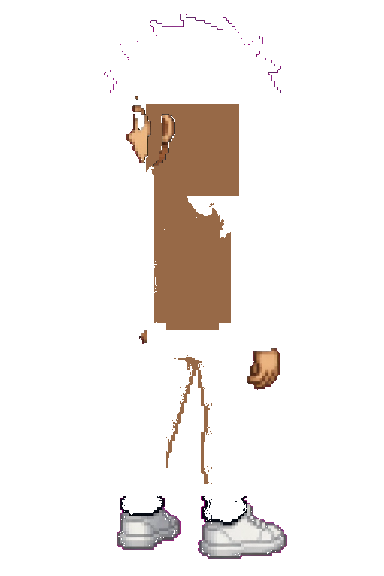
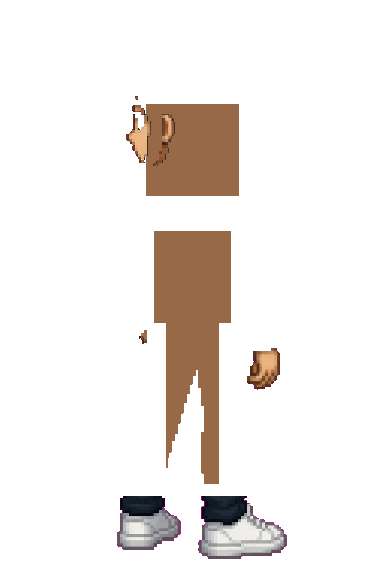
Lazy-load look layers so mobile works; wipe leftover hair from the base body.

diff --git a/src/lib/game/avatar.ts b/src/lib/game/avatar.ts
@@ -111,6 +111,9 @@ export function clampFigure(f: Partial<Figure> | undefined): Figure {
   };
 }
 
+const SPRITE_V = 20;
+const inflight = new Map<string, Promise<HTMLCanvasElement | null>>();
+
 function loadImage(src: string) {
   return new Promise<HTMLImageElement | null>((resolve) => {
     const img = new Image();
@@ -120,28 +123,77 @@ function loadImage(src: string) {
   });
 }
 
+function cacheCanvas(id: string, img: HTMLImageElement) {
+  const c = document.createElement("canvas");
+  c.width = img.width;
+  c.height = img.height;
+  const ctx = c.getContext("2d")!;
+  ctx.imageSmoothingEnabled = false;
+  ctx.drawImage(img, 0, 0);
+  sprites.set(id, c);
+  return c;
+}
+
+export async function loadSpriteId(id: string) {
+  if (sprites.has(id)) return sprites.get(id)!;
+  const hit = inflight.get(id);
+  if (hit) return hit;
+  const p = (async () => {
+    const img = await loadImage(`/art/avatars/${id}.png?v=${SPRITE_V}`);
+    if (!img) return null;
+    return cacheCanvas(id, img);
+  })();
+  inflight.set(id, p);
+  return p;
+}
+
+export function lookSpriteIds(fig: Figure, dir: 0 | 1 | 2 | 3 = 1) {
+  const f = clampFigure(fig);
+  const g = f.gender === 1 ? "f" : "m";
+  const view = dir === 2 || dir === 3 ? "ne" : "se";
+  const hair = hairName(f);
+  const top = topName(f);
+  const bot = botName(f);
+  return [
+    `${g}-base-${view}`,
+    `${g}-se-base`,
+    `${g}-hair-${hair}-${view}-layer`,
+    `${g}-hair-${hair}-se-layer`,
+    `${g}-top-${top}-${view}-layer`,
+    `${g}-top-${top}-se-layer`,
+    `${g}-bot-${bot}-${view}-layer`,
+    `${g}-bot-${bot}-se-layer`,
+  ];
+}
+
+export async function loadLookSprites(fig: Figure, dir: 0 | 1 | 2 | 3 = 1) {
+  await Promise.all(lookSpriteIds(fig, dir).map(loadSpriteId));
+}
+
 export function loadAvatars() {
   if (!loadPromise) {
-    loadPromise = (async () => {
-      const man = (await fetch("/art/avatars/manifest.json?v=19")
-        .then((r) => r.json())
-        .catch(() => [])) as string[];
-      await Promise.all(
-        man.map(async (file) => {
-          const img = await loadImage(`/art/avatars/${file}?v=19`);
-          if (!img) return;
-          const c = document.createElement("canvas");
-          c.width = img.width;
-          c.height = img.height;
-          const ctx = c.getContext("2d")!;
-          ctx.imageSmoothingEnabled = false;
-          ctx.drawImage(img, 0, 0);
-          sprites.set(file.replace(/\.png$/i, ""), c);
-        })
-      );
-      composeCache.clear();
-      recache.clear();
-    })();
+    loadPromise = Promise.all(
+      [
+        "m-se-idle",
+        "m-se-walk0",
+        "m-se-walk1",
+        "m-se-sit",
+        "m-ne-idle",
+        "m-ne-walk0",
+        "m-ne-walk1",
+        "f-se-idle",
+        "f-se-walk0",
+        "f-se-walk1",
+        "f-se-sit",
+        "f-ne-idle",
+        "f-ne-walk0",
+        "f-ne-walk1",
+        "m-base-se",
+        "f-base-se",
+        "m-base-ne",
+        "f-base-ne",
+      ].map(loadSpriteId)
+    ).then(() => undefined);
   }
   return loadPromise;
 }
@@ -826,11 +878,7 @@ export function drawAvatarFront(ctx: CanvasRenderingContext2D, fig: Figure, cx: 
   const destW = Math.round((destH * SPRITE_W) / SPRITE_H);
   const dx = Math.round(cx - destW / 2);
   const dy = Math.round(cy - destH * 0.92);
-  if (!made) {
-    ctx.fillStyle = "#14F195";
-    ctx.fillRect(dx + destW * 0.3, dy + destH * 0.2, destW * 0.4, destH * 0.7);
-    return;
-  }
+  if (!made) return;
   blit(ctx, recolor(made.src, f, made.id), dx, dy, destW, destH, flipOf(dir));
 }
 

diff --git a/scripts/build-avatar-layers.js b/scripts/build-avatar-layers.js
@@ -186,14 +186,7 @@ function makeBase(idle, hairMask) {
       const [r, g, b, a] = px(out, x, y);
       if (a < 8) continue;
       const xn = x / w;
-      const hairHere =
-        isHair(r, g, b, a) ||
-        isHairInk(r, g, b, a, yn, xn) ||
-        (hairMask &&
-          x < hairMask.width &&
-          y < hairMask.height &&
-          isHair(...px(hairMask, x, y)));
-      if (hairHere) {
+      if (yn < 0.4 && !isSkin(r, g, b, a)) {
         if (yn > 0.18 && yn < 0.34 && xn > 0.38 && xn < 0.62) setPx(out, x, y, skin[0], skin[1], skin[2], 255);
         else setPx(out, x, y, 0, 0, 0, 0);
         continue;
@@ -303,6 +296,7 @@ const tests = [
   ["girl-default", "f", "se", "long", "hoodie", "pants"],
   ["girl-bob-blouse-skirt", "f", "se", "bob", "blouse", "skirt"],
   ["girl-pony-cami-shorts", "f", "se", "pony", "cami", "shorts"],
+  ["boy-buzz-jacket-pants", "m", "se", "buzz", "jacket", "pants"],
 ];
 
 for (const [label, g, view, hair, top, bot] of tests) {

diff --git a/src/components/GameClient.tsx b/src/components/GameClient.tsx
@@ -10,7 +10,7 @@ import { drawRoom, tileAt } from "@/lib/game/draw";
 import { astar, canPlaceFurn, furnAt } from "@/lib/game/path";
 import { iso } from "@/lib/game/iso";
 import { face, motAt, setPath, tickMot, type Mot } from "@/lib/game/motion";
-import { loadAvatars } from "@/lib/game/avatar";
+import { loadAvatars, loadLookSprites } from "@/lib/game/avatar";
 import { loadSprites, spriteCache } from "@/lib/game/sprites";
 import { api, authInit, clearClientToken } from "@/lib/clientAuth";
 import type { Ad, ChatLine, Occupant, Placed, Room } from "@/lib/types";
@@ -99,6 +99,11 @@ export function GameClient({ me, homeRoomId }: { me: Me; homeRoomId: string }) {
   useEffect(() => {
     loadAvatars();
   }, []);
+
+  useEffect(() => {
+    loadLookSprites(meState.figure, 1);
+    for (const o of snap?.occupants || []) loadLookSprites(o.figure, o.dir ?? 1);
+  }, [meState.figure, snap]);
 
   useEffect(() => {
     if (phone !== "shop") return;

diff --git a/src/components/CharacterPreview.tsx b/src/components/CharacterPreview.tsx
@@ -10,7 +10,7 @@ import {
   GENDERS,
   HAIR_C,
   hairsFor,
-  loadAvatars,
+  loadLookSprites,
   SKIN,
   topsFor,
   TOPS,
@@ -143,8 +143,14 @@ export function CharacterPreview({
   const ref = useRef<HTMLCanvasElement>(null);
   const [tick, setTick] = useState(0);
   useEffect(() => {
-    loadAvatars().then(() => setTick((n) => n + 1));
-  }, []);
+    let live = true;
+    loadLookSprites(figure, dir).then(() => {
+      if (live) setTick((n) => n + 1);
+    });
+    return () => {
+      live = false;
+    };
+  }, [figure, dir]);
   useEffect(() => {
     const c = ref.current;
     if (!c) return;
